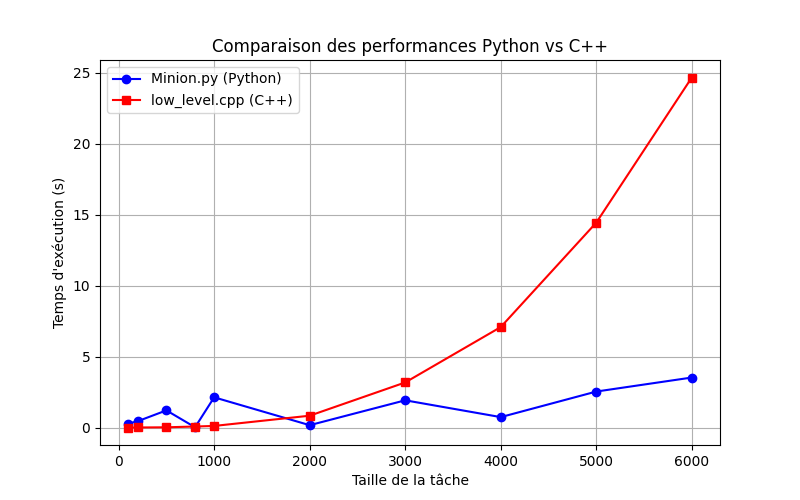
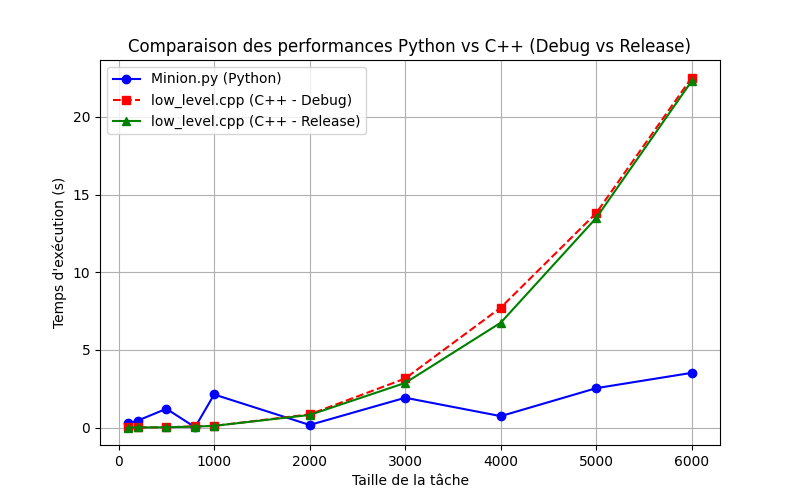
add Debug/Release C++

diff --git a/output/compare_performance.py b/output/compare_performance.py
@@ -14,12 +14,15 @@ def load_performance_data(filename):
     return identifiers, sizes, times
 
 
-# Charger les données des deux fichiers
+# Charger les données des trois fichiers
 identifiers_python, sizes_python, times_python = load_performance_data(
     "performance_results_python.txt"
 )
-identifiers_cpp, sizes_cpp, times_cpp = load_performance_data(
-    "performance_results_cpp.txt"
+identifiers_cpp_debug, sizes_cpp_debug, times_cpp_debug = load_performance_data(
+    "performance_results_cpp_debug.txt"
+)
+identifiers_cpp_release, sizes_cpp_release, times_cpp_release = load_performance_data(
+    "performance_results_cpp_release.txt"
 )
 
 # Tracer les performances
@@ -33,18 +36,26 @@ plt.plot(
     label="Minion.py (Python)",
 )
 plt.plot(
-    sizes_cpp,
-    times_cpp,
-    linestyle="-",
+    sizes_cpp_debug,
+    times_cpp_debug,
+    linestyle="--",
     marker="s",
     color="r",
-    label="low_level.cpp (C++)",
+    label="low_level.cpp (C++ - Debug)",
+)
+plt.plot(
+    sizes_cpp_release,
+    times_cpp_release,
+    linestyle="-",
+    marker="^",
+    color="g",
+    label="low_level.cpp (C++ - Release)",
 )
 
 # Configuration du graphique
 plt.xlabel("Taille de la tâche")
 plt.ylabel("Temps d'exécution (s)")
-plt.title("Comparaison des performances Python vs C++")
+plt.title("Comparaison des performances Python vs C++ (Debug vs Release)")
 plt.legend()
 plt.grid(True)
 

diff --git a/README.md b/README.md
@@ -116,7 +116,8 @@ cmake --build build
 
 Comme le montre le graphique ci-dessus :
 - **Python (Minion.py) est globalement plus rapide que C++ (low_level.cpp), même pour les grandes tailles de matrices.**
-- **C++ est plus performant uniquement pour les très petites tailles de matrices.**
+- **C++ en mode Debug est significativement plus lent que Python et C++ en mode Release**.
+- Le mode Release de C++ améliore un peu les performances, mais reste en dessous de Python pour la plupart des tailles de matrices
 - Cette performance de Python est due au fait que **NumPy est optimisé en C et bénéficie d'algorithmes hautement optimisés pour les opérations matricielles.**
 - **Malgré les optimisations en C++, Python surpasse C++ sur la plupart des tailles de matrices.**
 
